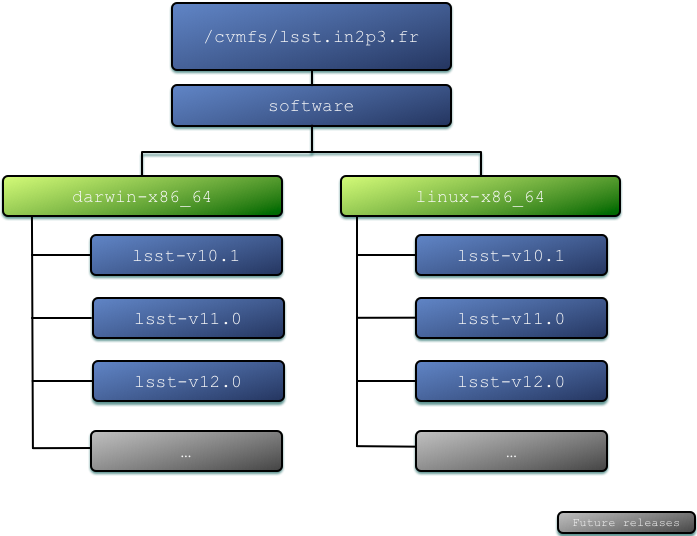
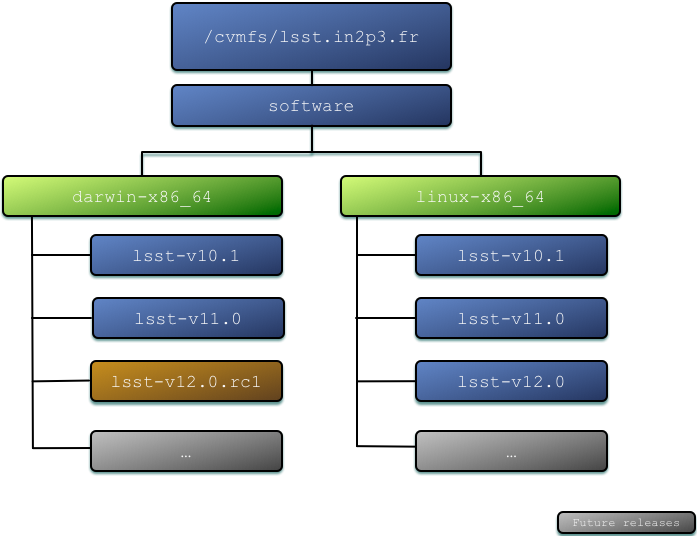
v12.0 fails to build on Darwin

Changed region(s): [[0.0904, 0.6567, 0.4218, 0.7463], [0.5122, 0.6866, 0.5725, 0.7164], [0.5122, 0.5672, 0.5725, 0.597]]

diff --git a/README.md b/README.md
@@ -132,7 +132,7 @@ Currently you will find the releases presented in the table below:
 | Platform                | Available versions of LSST software |
 | ---------------------   | ----------------------------------- |
 | Linux, x86_64, 64bits   |   `v10.1`, `v11.0`, `v12.0` |
-| Darwin, x86_64, 64bits  |   `v10.1`, `v11.0`, `v12.0` |
+| Darwin, x86_64, 64bits  |   `v10.1`, `v11.0`, `v12.0.rc1` |
 
 For details on the platform each binary release was built on please refer to the `README` file in the corresponding directory.
 
